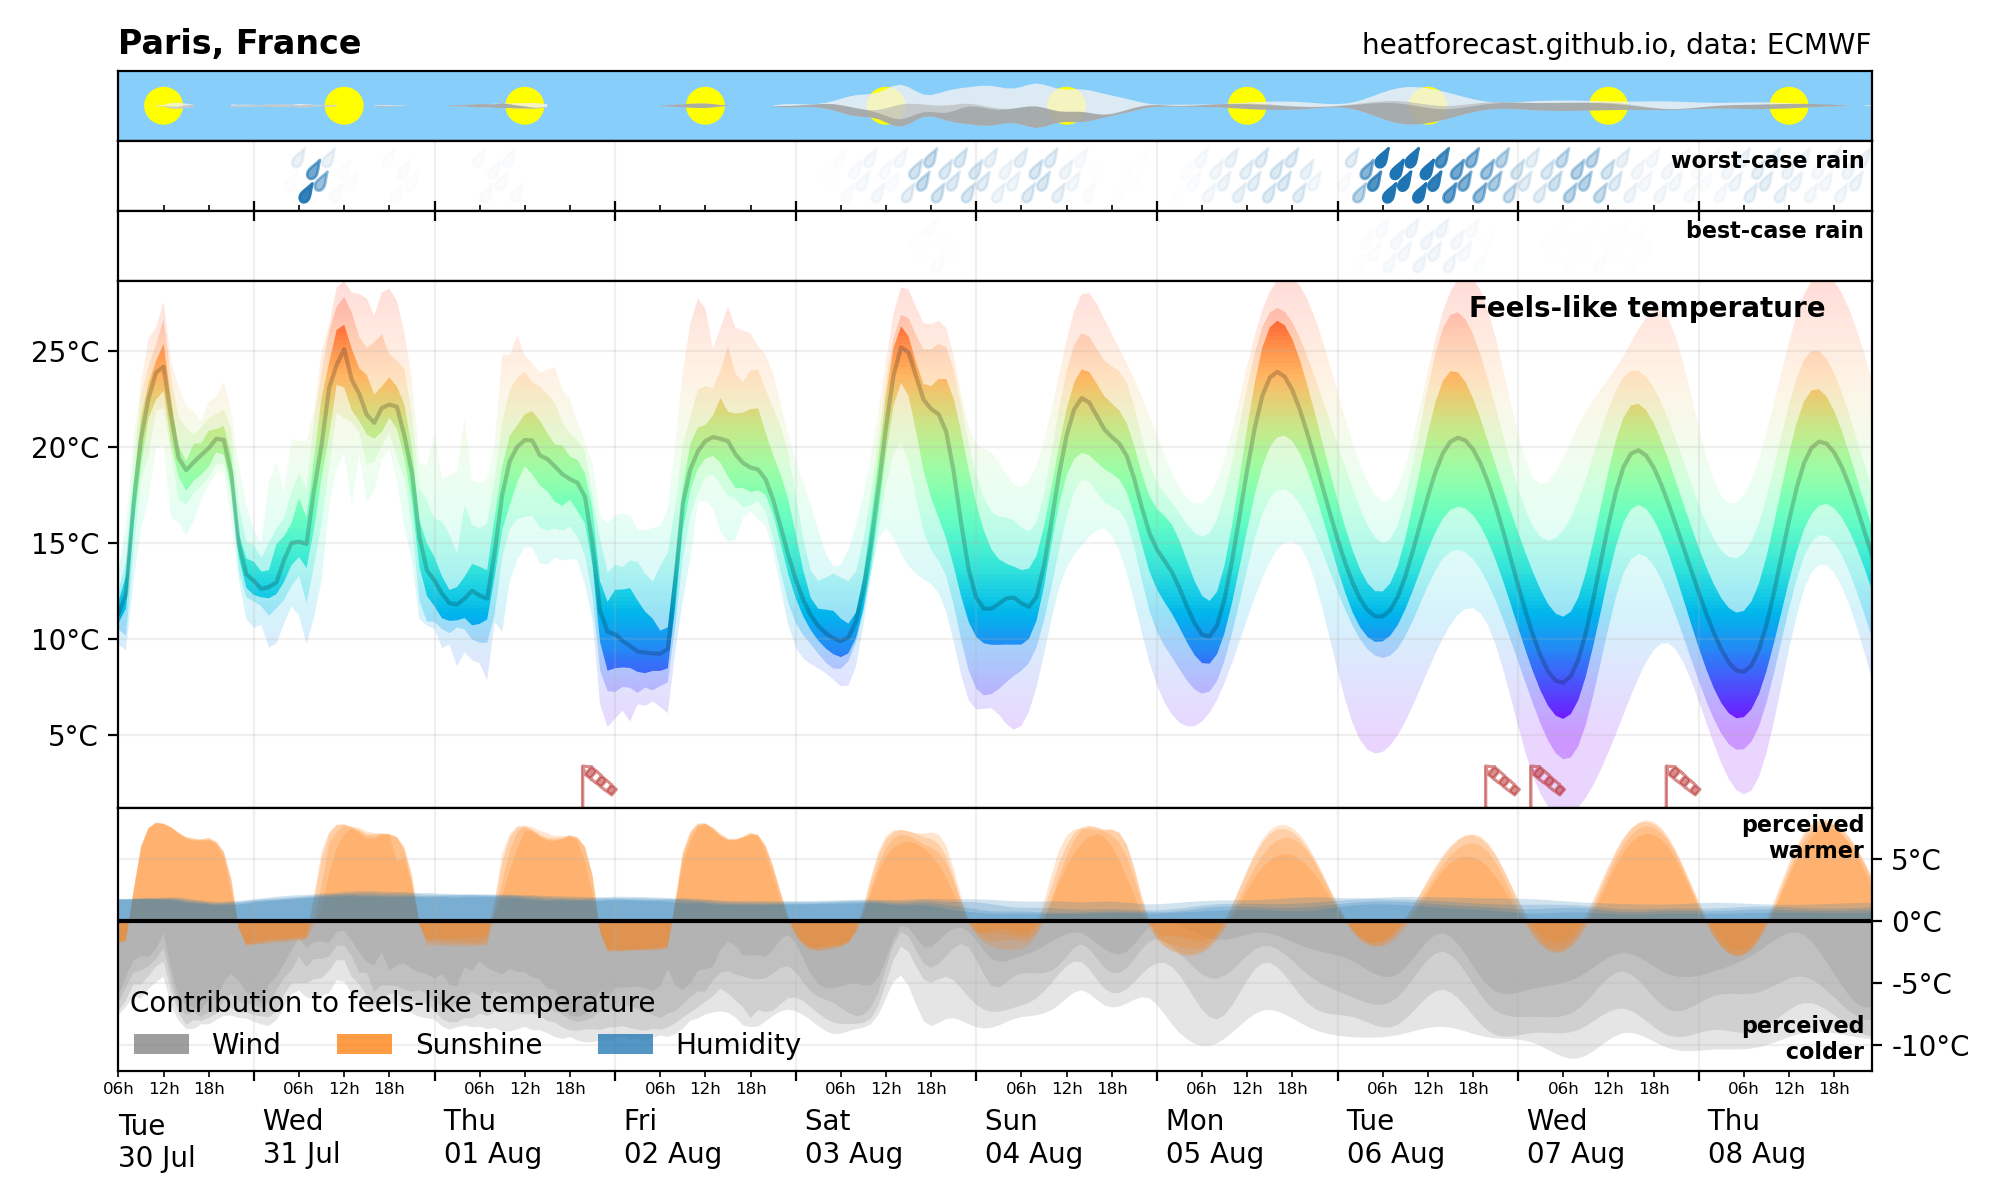
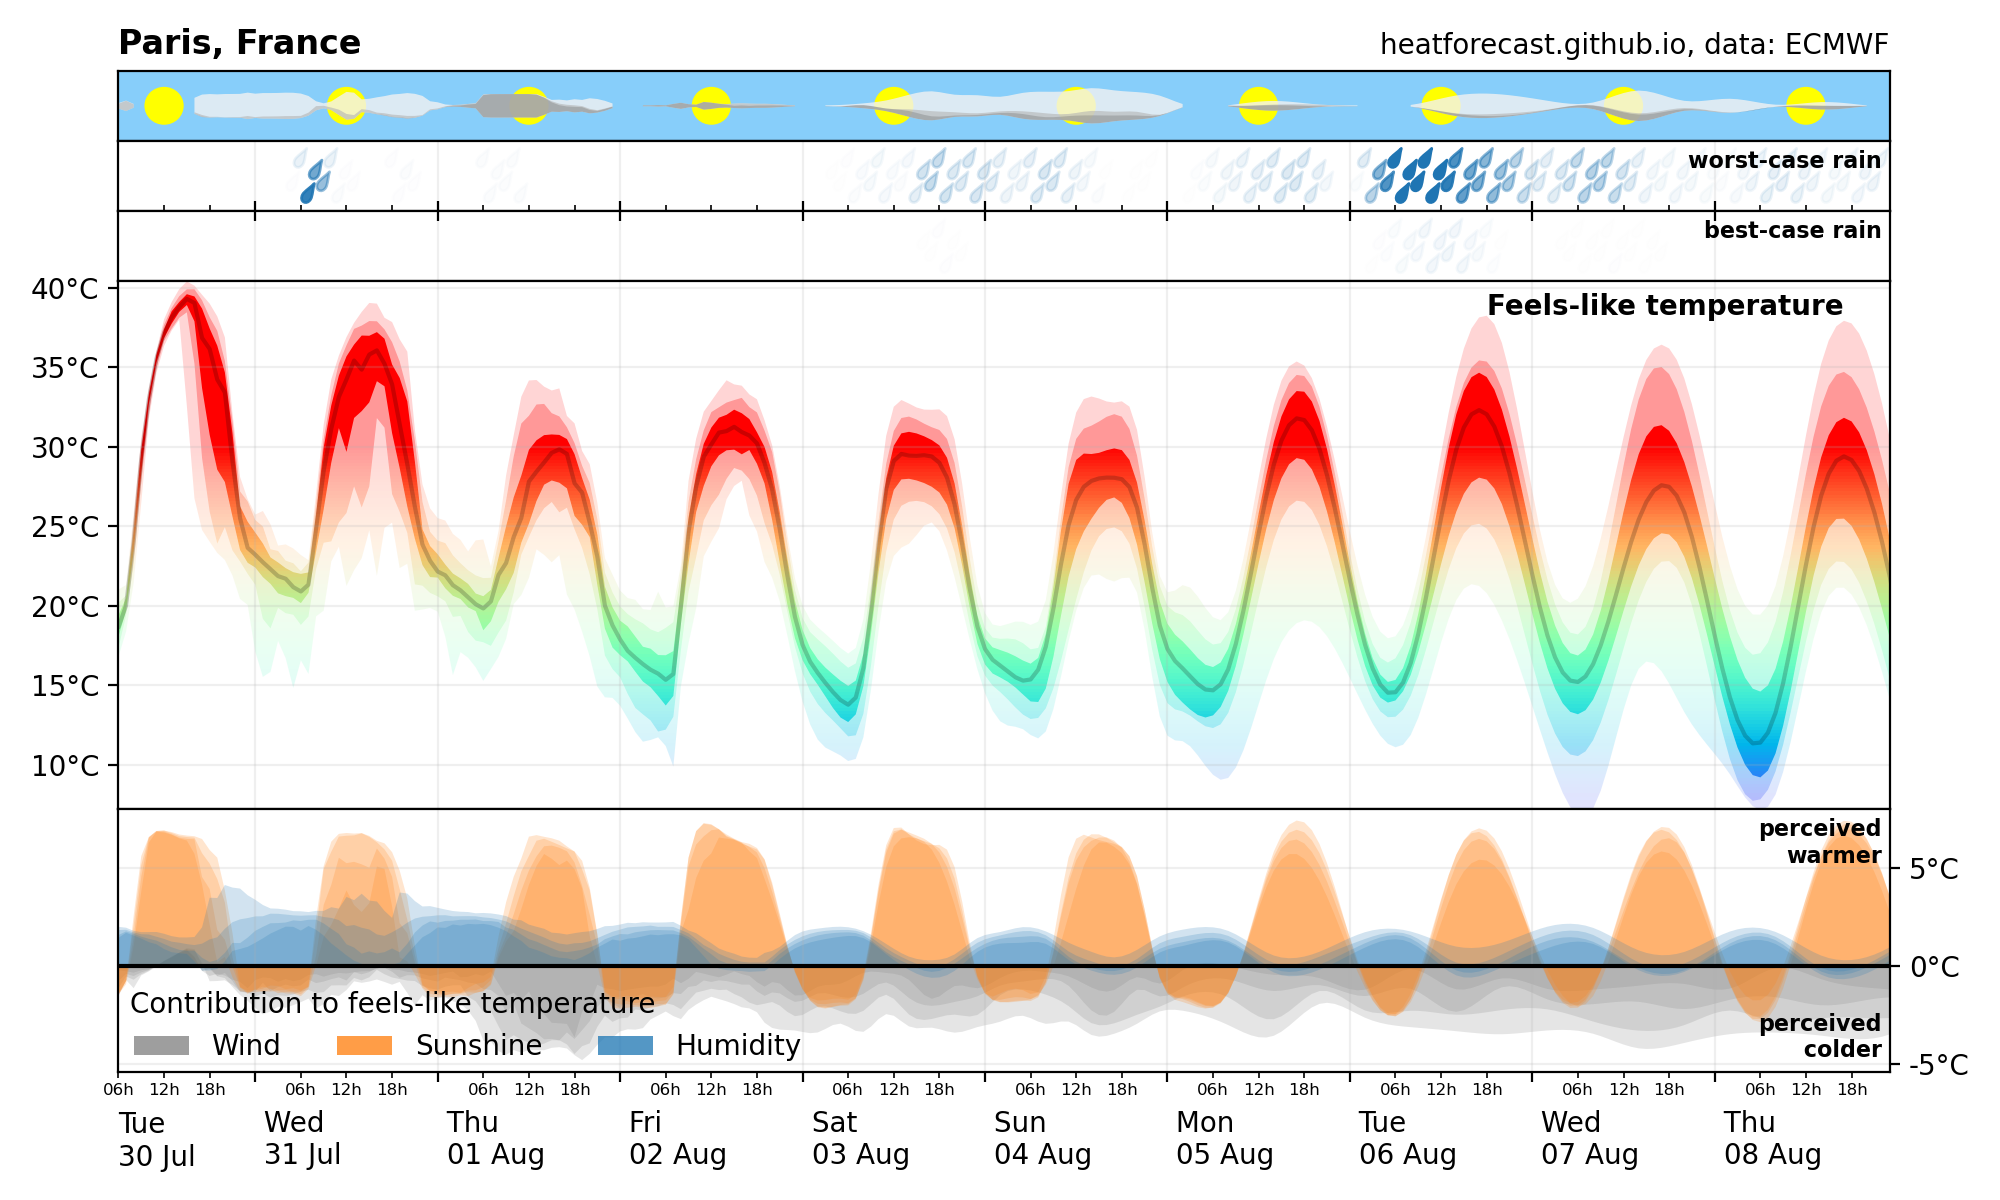
corrected 30 july post

diff --git a/_posts/2024-07-30-post.md b/_posts/2024-07-30-post.md
@@ -1,8 +1,8 @@
 ---
 layout: post
-title: Showers tomorrow?
+title: Feels-like almost 40˚C
 ---
 
-Rather short than long though.
+Showers tomorrow?
 
 ![Heatforecast meteogram Paris 30 July 2024](https://heatforecast.github.io/images/paris_2024073000.png)
